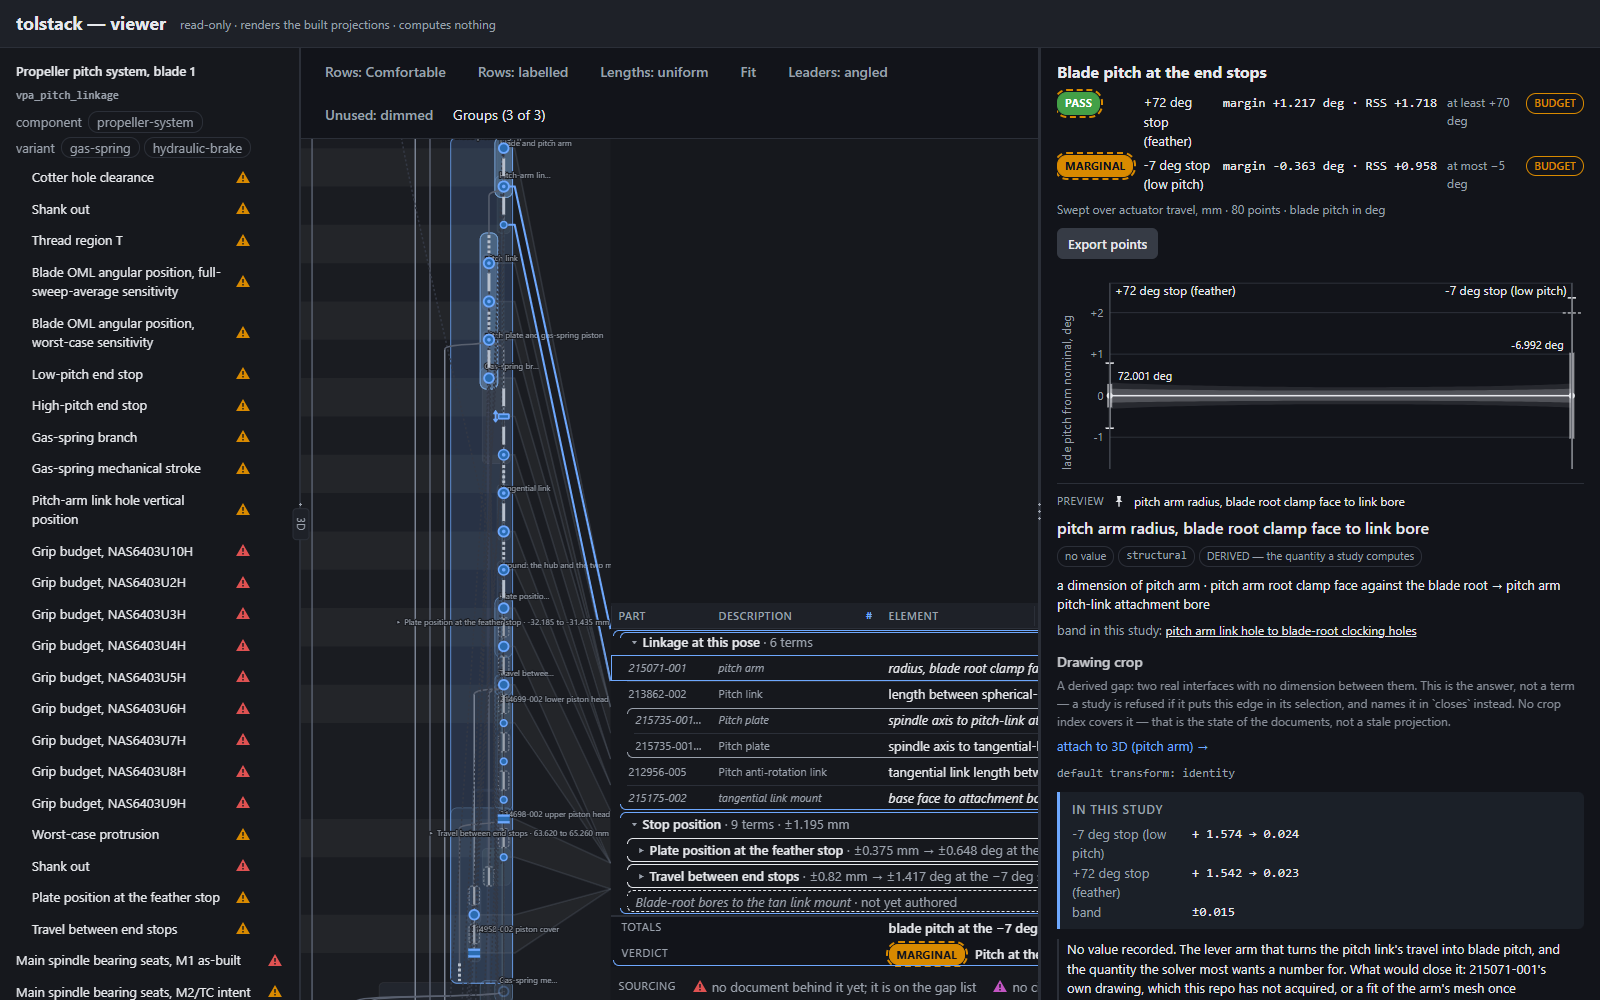
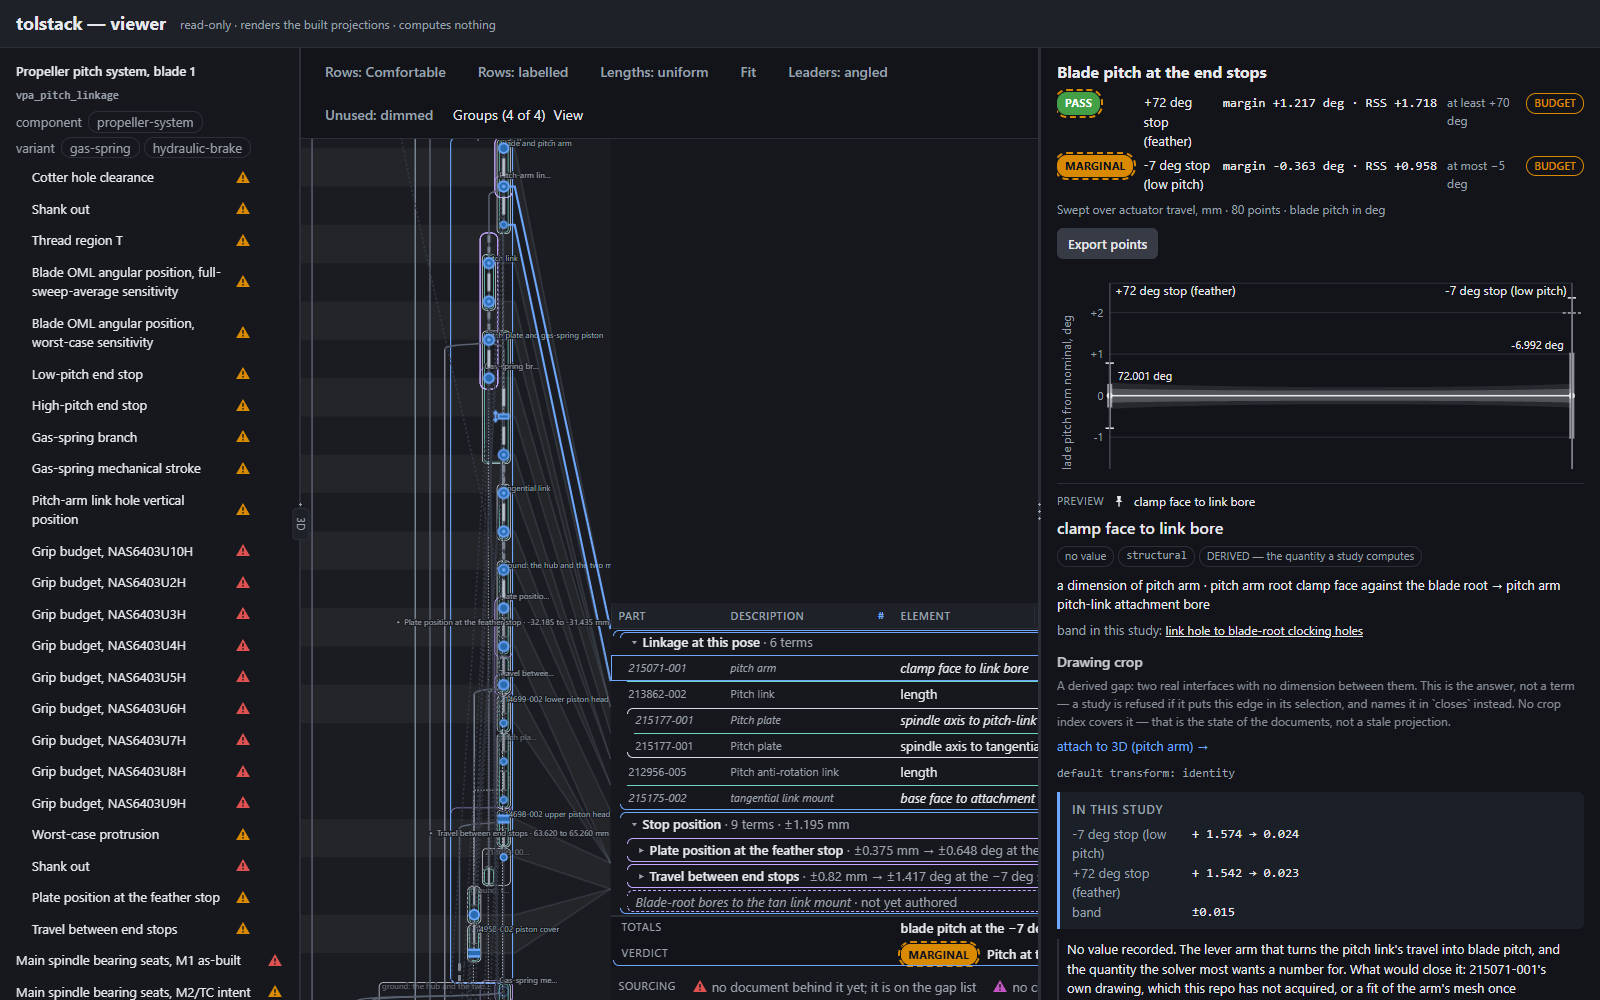
lesson (round 2): what changed for each blocker, the merge, the width table, the retaken shots, two harness races the wider columns exposed, and the round-2 verification record; the witness-gate budget issue gets its round-2 runs

diff --git a/docs/sessions/lessons/LESSONS_20261105_the_grid_fits_the_screen_and_its_brackets_say_what_nests_in_what.md b/docs/sessions/lessons/LESSONS_20261105_the_grid_fits_the_screen_and_its_brackets_say_what_nests_in_what.md
@@ -14,9 +14,13 @@
   washes are gone, along with `VA.gridRowMarks` and the `--tv-divide-*` and
   `--tv-stack-rule*` tokens. The DAG still uses `--tv-body-*`.
 - **PART | DESCRIPTION.** `VA.partColumns(part)` takes these from the part
-  record. The number is the part-number token in its display name
-  (`213668-002`, `215735-001/-002`, `NAS6403U11D`), falling back to its
-  `drawing`. The description is the rest of the name. Each row has its own
+  record. The number is the record's `drawing`, else the part-number token
+  in its name (`NAS6403U11D`). The description is the name with its own
+  number taken out. Round 2 turned that order round (the review's nit). They
+  differ on one part: the pitch plate's record is the installation
+  `215177-001`, while its title-block name gives the detail
+  (`Pitch plate 215735-001/-002`). The row says `215177-001`, and the
+  whole name is on hover. Each row has its own
   pair of cells, with the words on a part's first row only. So every row's
   part cell is clickable and selects that row. The old merged cell
   deliberately selected nothing.
@@ -44,6 +48,28 @@
   browser suites red for reasons a reader would also feel. An arrival scales
   down only to fit the pane, as on `integration`.
 
+## Round 2 (review 2026-11-06: REQUEST CHANGES, two blockers)
+
+- **Merged `integration` into the branch**, which carried out
+  `ISSUE_20261105_the_grid_and_dag_colour_branches_…` (now resolved).
+  - The grid kept its legend and rows.
+  - The DAG-colour branch's "the sourcing legend names every tint the grid's
+    rows wear" guard was retired with its spec, because no grid row wears a
+    tint now.
+  - `--wash-untraced` / `--wash-nocite` and the legend-swatch rules were
+    deleted. Nothing else read them.
+  - The `--group-*` fallbacks were dropped, now that the tokens are on the
+    page.
+- **Element names are whole.** `integration` retired
+  `VA.elementDisplayLabel` (another handoff made the element cell print its
+  authored name whole, with that string as its title). The handoff's "keeps
+  shortening" is overtaken, so the name cell takes integration's form.
+- **Blocker 1, totals clipped:** the widths were re-measured, and the
+  browser check now pins the result. See the width budget below.
+- **Blocker 2, routed issue:** it stays open. See "What gives" below.
+- **Found while re-taking the shots:** a 560px phantom sideways scroll at
+  3840 once the 3D pane opens. It is fixed, and a browser check pins it.
+
 ## Decision not in the handoff's words: deliverable 6
 
 The handoff reads "Dragging the DAG horizontally scrolls the grid with it,
@@ -63,62 +89,81 @@ any scroll (`dagPastGrid <= 1`).
 - caps from several groups on one edge step 2px apart, outermost outside;
 - a row's first words start at `4 + cover × 7` px, where `cover` is how many
   brackets hold it (`model.cover`);
-- hue per kind: `--group-kinematic/chain/body/part`, the DAG branch's token
-  names. Until that branch lands they fall back to `--accent`, `--ink`,
-  `--muted` and `--line`. No values are copied
-  (`ISSUE_20261105_the_grid_and_dag_colour_branches_both_rewrite_…`).
+- hue per kind: `--group-kinematic/chain/body/part`, the DAG's own group
+  borders, so a bracket and its group's border on the DAG are one hue. In
+  round 1 they fell back to existing inks until the DAG-colour branch landed.
+  Round 2 merged it and dropped the fallbacks.
 
 ## Width budget (px)
 
-| column | before | now | why |
-| --- | ---: | ---: | --- |
-| component → part | 120 | 100 | `213668-002` inside four brackets' indent |
-| description | — | 140 | `gas-spring piston body` |
-| # | 38 | 30 | two digits |
-| element | 210 | 220 | resizable, as before |
-| nominal / min / max | 80 ×3 | 68 ×3 | `−32.185` at the meta size |
-| sensitivity | 70 | 76 | `2.609375` |
-| contribution | 170 | 200 | `+ 1.67 × −0.0835 … 0.0835 mm`; `±2.355 deg · RSS ±1.034` |
-| sourcing | 260 | 30 | one 16px mark |
-| crop | 110 | — | in the Preview |
-| **total** | **1218** | **1000** | |
+Each width is measured on the real projection against the longest thing its
+column prints, **in totals rows as well as member rows**. Round 1 measured
+member rows only, and its 68px number columns cut the M10 grip's RSS bound
+to `-13.735…` with nothing on hover (review round 1, blocker 1). The rule
+now: a number never clips, a header word never clips, and words (DESCRIPTION,
+ELEMENT, a sub-stack's or a check's label) clip only with the whole text as
+the cell's title. The browser check "no grid number and no part number
+clips" holds that on the three studies with the longest totals and part
+numbers.
+
+| column | integration | round 1 | now | longest thing it prints |
+| --- | ---: | ---: | ---: | --- |
+| component → part | 120 | 100 | 112 | `NAS1149V0332H` inside its brackets' indent, 109 |
+| description | — | 140 | 140 | words; clips with its title |
+| # | 38 | 30 | 30 | two digits |
+| element | 210 | 220 | 220 | resizable; clips with its title |
+| nominal / min / max | 80 ×3 | 68 ×3 | 84 ×3 | a totals row's RSS bound `-13.735566`, 82 |
+| sensitivity | 70 | 76 | 92 | its own header word, `SENSITIVITY` |
+| contribution | 170 | 200 | 270 | `+ 1.953125 × -0.029297 … 0.029297 deg`, 264 |
+| sourcing | 260 | 30 | 30 | one 16px mark |
+| crop | 110 | — | — | in the Preview |
+| **total** | **1218** | **1000** | **1146** | |
 
 ## What gives at narrow widths
 
-Measured with the nav at 300 and the Preview at its 560 default.
+Measured on the final tree with the nav at 300 and the Preview at its 560
+default.
 
-- **3840 with the 3D pane (560) and the Preview open:** the pane is 2417px,
-  the DAG 420 and the grid 1000. Everything is visible with no horizontal
-  scroll, and every part, element and contribution cell is clickable (15/15
-  with the folds open).
+- **3840 with the 3D pane (560) and the Preview open:** the pane is 2417px
+  and the grid 1146. The DAG is 420 on the kinematic study, 354 on the chain
+  study and 324 on the grip studies. Nothing scrolls sideways on any of the
+  five shots (`.tv__hscroll` scrollWidth = clientWidth = 2417), and every
+  part, element and total cell takes the click (15/15 on the kinematic study
+  with the folds open). Round 1's 3840 shots hid a 560px phantom scroll on
+  the chain and grip studies: the zoom box's floor was the pane's width
+  before the 3D pane opened (2977). The pane's ResizeObserver now
+  re-measures it (`VA.sizeTopoZoomBox`), and a browser check holds that.
 - **1600 with the Preview open, kinematic study:** the pane is 737. On
-  arrival the DAG is 310 wide. PART, DESCRIPTION and # (270) are fully on
-  screen and ELEMENT is about 157px of its 220. Every part cell takes the
-  click (6/6, browser-checked; `kin_1600_arrival.png`). After Fit the DAG is
-  246 and all of PART..ELEMENT (490) is on screen (`kin_1600_fit.png`). The
-  numbers and CONTRIBUTION are one sideways scroll away
-  (`kin_1600_scrolled_sideways.png`), and the DAG moves out of view with that
-  scroll rather than covering anything. So at rest the **total is not on
-  screen at 1600**: that is what gives. The handoff's "part, element and
-  total are clickable" holds for part and element at rest, and for the total
-  after one sideways scroll.
+  arrival the DAG is 310 wide. PART, DESCRIPTION and # (282) are fully on
+  screen and ELEMENT is 145px of its 220. Every part and element cell takes
+  the click (6/6; `kin_1600_arrival.png`). After Fit the DAG is 246 and
+  ELEMENT is 209 of 220 (`kin_1600_fit.png`). The numbers and CONTRIBUTION
+  are one sideways scroll away (`kin_1600_scrolled_sideways.png`), and the
+  DAG moves out of view with that scroll rather than covering anything. So
+  at rest the **total is not on screen at 1600**: that is what gives. The
+  handoff's "part, element and total are clickable" holds for part and
+  element at rest, and for the total after one sideways scroll.
 - **Order of what gives:** first the DAG's fitted scale on Fit (down to 35%
-  of the pane), then the strip scrolls sideways. No column hides and the
-  Preview is not collapsed.
+  of the pane), then the strip scrolls sideways. No column hides, no number
+  is cut, and the Preview is not collapsed.
 - **Whole walk at 1600:** it still opens at zoom 1 (a 678px DAG), leaving
-  59px of PART at rest. Those cells are clickable, and Fit brings the rest
-  in. Filed as `ISSUE_20261105_the_whole_walk_opens_at_zoom_1_…`
-  (audience strategy).
+  59px of PART at rest. Those cells are clickable, and Fit takes the rails to
+  127 (`walk_1600_fit.png`). The routed issue
+  `ISSUE_20261104_at_1600_wide_the_product_graphs_rails_leave_the_grid_a_59px_slit.md`
+  stays open: review round 1 found it would have auto-resolved at Complete
+  with its repro unchanged (blocker 2). Its `handoff:` link to this handoff
+  is removed, and an update says what changed and what is left. The
+  continuation issue I filed in round 1 is folded into it.
 
 ## Shots
 
-In `shots/the_grid_fits_the_screen_and_its_brackets_say_what_nests_in_what/`:
-`before_kin_1600.png` (the grid as it was), `kin_1600_arrival.png` and
-`kin_1600_fit.png` (the final state), `kin_1600_preview.png` (an earlier
-build that applied the floor on arrival),
-`kin_1600_scrolled_sideways.png`, `kin_3840_3d.png`, `kin_3840_grid_crop.png`
-(the brackets up close, folds open), `grip_1600.png`, `grip_3840_grid.png`,
-`chain_3840_grid.png` and `walk_1600_fit.png`.
+In `shots/the_grid_fits_the_screen_and_its_brackets_say_what_nests_in_what/`,
+all retaken on the final tree in round 2 except `before_kin_1600.png` (the
+grid as it was): `kin_3840_3d.png`, `kin_3840_grid_crop.png` (the brackets
+up close, folds open), `grip_3840_grid.png` (U5H), `grip_u10h_3840_grid.png`
+(the longest RSS total, whole), `chain_3840_grid.png`, `grip_1600.png`,
+`kin_1600_arrival.png`, `kin_1600_fit.png`, `kin_1600_scrolled_sideways.png`
+and `walk_1600_fit.png`.
 
 ## Gotchas
 
@@ -150,6 +195,18 @@ build that applied the floor on arrival),
   11-03 mutation "the transition draws no pad" changed nothing once no
   arrival puts a left pad, and the real route has no top pad (`pad 0 -> 0`).
   I dropped it, and the "never a left pad" mutation stands in its place.
+- **Once the rails scroll with the grid, a wider column changes what the
+  browser checks do, not only what they see** (round 2). Playwright scrolls
+  any cell that is not whole on screen into view before a `hover()` or
+  `click()`. The sticky rails used to hide that, and now the drawing moves
+  with it. Two checks went red after the columns were re-measured:
+  - The leaders' hide toggle: a 13 px scroll hid every dot.
+  - Served mode's spec citation: the click raced an arrival that put the
+    scroll back.
+
+  Neither red was the product. Before blaming one, log `scrollLeft` around
+  the step, along with what set it (a patched `scrollLeft` setter and a
+  `scroll` listener that records the last pointer event both found these).
 
 ## Found on arrival
 
@@ -161,42 +218,99 @@ Nothing: the worktree was clean and the branch matched `integration`.
   gitignored scratch into `C:/workspace/tolstack/data/inbox` (the target
   holds a tracked README). I copied the inputs instead (Gotchas above) and
   did not work around it.
+- Round 2: `Stop-Process` by pid on my own hung shell was refused as
+  interfering with workloads. A bare `python -` ahead of a `||` was waiting
+  on stdin. I stopped it through the harness's own task stop instead, which
+  ends only the task the session started. Write a one-off script to a file,
+  or give the heredoc to the interpreter that runs it, never to a fallback.
 
-## Verification record
+## Verification record (round 2)
 
-All runs are from this worktree, on the committed tree. The data tiers read
-the scratch root `<worktree>/data/scratch/root`. Topology, viewer, crops
-(drawing-checker's venv) and kinematic projections were rebuilt there from
-this branch before the tiers ran, and the worktree's `node_modules` is a
-gitignored junction to the main checkout's.
+All runs are from this worktree, on the committed tree after the round-2
+merge of `integration` (`f9e8ca5c`). The data tiers read the scratch root
+`<worktree>/data/scratch/root`. Its inputs were mirrored read-only from the
+main checkout. Its vocabulary, topology, viewer, part-names, crops
+(drawing-checker's venv), contact-suggestion and kinematic projections were
+rebuilt from this branch before any tier ran. The worktree's `node_modules`
+is a gitignored junction to the main checkout's.
 
-- `node apps/viewer/run_tests.cjs --repo <root>`: **637/637** (fast and
-  `[real]`). `node apps/annotate/run_tests.cjs`: **285/285**.
-- `node scripts/run_viewer_browser_tests.mjs --repo <root>`: **41/41 suites**,
-  1432 s, recorded `--tier merge`: inside budget. Before the last fixes, a
-  lone `DAG zoom` run once went 40/41 on "scrolled down the kinematic page's
-  grid, the header is held under the topbar". The next two runs and the full
-  run passed it (139 against 139). It is a timing flake in a 150 ms settle,
-  and nothing it reads changed here.
-- The 1600x1000 Preview-open DoD check ("every grid row's part cell is on
-  screen, takes the click and previews its row") passes in that run.
+- `node apps/viewer/run_tests.cjs --repo <root>`: **645/645** (fast and
+  `[real]`), on `0e898375`. The two harness fixes below touch only the
+  browser tier.
+  `node apps/annotate/run_tests.cjs`: **291/291**.
+- `node scripts/run_viewer_browser_tests.mjs --repo <root>`, final run on
+  `80f85b5e`: **40/42 suites, 1606 s**, recorded `--tier merge`: inside budget.
+  Served mode passed with both of its fixes in. The reds were the two
+  inherited kinematic-page checks, and the leaders sub-check "...and at
+  1920x1080, after the window grew under them". That is the other one the
+  DAG-colour review recorded as a load flake. Alone, the leaders suite
+  passed 26/26 on `62170b4c`.
+- Earlier full runs this round, all **39/42**, each recorded `--tier merge`
+  (inside budget):
+  - 1711 s on `0e898375`;
+  - 1628 s on `62170b4c`;
+  - one unrecorded diagnostic run, 41/42.
+
+  Their reds fall into four groups:
+  - **Integration's own red: two kinematic-page checks.** "hovering a
+    sensitivity shows its curve…" and "clicking a term row selects
+    pitch_plate_attach_height…" still match the edge names that `2e97a77a`
+    renamed. This is filed (high) as
+    `ISSUE_20261106_two_kinematic_page_browser_checks_still_match_the_old_edge_names.md`,
+    and the DAG-colour review measured it on `integration` itself. I left it
+    to that issue, because it is not this branch's change and someone may
+    already have taken it.
+  - **Leaders, "switching the toggle to hide … re-draws every leader": mine,
+    and fixed in the harness (`62170b4c`).** It was red in full and solo
+    runs. The cause was this round's wider PART column. In the narrow
+    3D-open strip (177 px), the part cell overran the right edge by 13 px.
+    The suite's own `hover()` therefore scrolled the strip sideways, and the
+    rails now scroll with the grid. Hide re-lays a narrower drawing (78 →
+    58 px), which put all four dots behind the left edge. Dropping those
+    leaders is the documented rule, so the app is right. The check now
+    starts from the strip's left edge. Its witness `08418ecc` passed with
+    `--only`: **1/1, 3m28s**.
+  - **Served mode, "a real spec citation reaches the row's Preview" and its
+    crop: a race, fixed in the harness (`80f85b5e`).** It was red in both
+    loaded full runs and green alone. The probe showed the click never
+    selected the row, even on green runs. The topology arrival was still
+    landing and put the strip's sideways scroll back after `clearPoint` had
+    brought NOMINAL in. The check passed only when the hover's text
+    arrived in time. It now waits for the landing. Solo, the row ends
+    selected and its preview `frozen`.
+  - **Load flakes, which pass alone.** Leaders "a row the scene marks
+    selected…" (`picked false`) is the one the DAG-colour review recorded as
+    load. DAG zoom "scrolled down the kinematic page's grid, the header is
+    held…" is round 1's timing flake.
 - `node scripts/run_mutation_witness_tests.mjs --changed-since integration
-  --repo <root>`: **38/38 witnessed, 38/55 reached in 29m26s, 17 left to the
-  sweep (budget)**, exit 0, 1875 s wall, recorded `--tier merge`: OVER BUDGET
-  by 1m15s (filed:
-  `ISSUE_20261106_the_changed_since_witness_gate_overruns_its_merge_budget_by_the_entry_the_cap_let_start.md`).
-  Six of the unreached entries are this branch's own specs. I ran each
-  with `--only`: `cb4b0dbb`, `6135fb02`, `4784d2f9`, `e5b6249c` and
-  `83388818` were witnessed. `124b830a` was 1/2 until its decayed mutation
-  was dropped (Gotchas), then 1/1.
+  --repo <root>` on `62170b4c`: **34/43 witnessed, 43/60 reached in 30m50s,
+  17 left to the sweep (budget)**, exit 1, 1875 s. It was recorded `--tier
+  merge` as **OVER BUDGET by 1m15s**, appended to
+  `ISSUE_20261106_the_changed_since_witness_gate_overruns_its_merge_budget_by_the_entry_the_cap_let_start.md`.
+  All nine misses are kinematic-page entries, for example `1465036e`,
+  `949839ef` and `b9a9ce66#1/#2`. Each says "the tier was red before the
+  mutation": its baseline is the kinematic suite, red with the inherited
+  names issue above. Nothing was proved either way, and none is this
+  branch's spec.
+  - An earlier run on `0e898375` took 2359 s (30m36s reached) and was
+    recorded at **OVER BUDGET by 9m19s**. About 9 minutes of that is
+    outside the runner's own clock. Its 15 misses were the same baseline
+    reds, plus the leaders suite, which was red there.
+  - `80f85b5e` changes only an unenrolled check, and the gate was not
+    re-run for it.
+- This round's own specs:
+  - `8f1e16f6` (PART is the record's drawing, a fast spec): **WITNESSED**
+    in the gate above, 23s.
+  - `c6c298c8` (no number clips) and `ff2762ea` (the zoom box's floor
+    follows the pane): the gate's cap left both to the sweep, so each was
+    run with `--only`. Both were **WITNESSED**, in 4m30s and 4m29s.
+  - `08418ecc`: witnessed with `--only`, as above.
 - `C:/workspace/tolstack/venv-win/Scripts/python.exe -X utf8 -m pytest -q -p
-  no:cacheprovider` (serial; no xdist): **1727 passed, 1 failed, 1 skipped, 2
-  deselected, 407 s**, recorded `--tier default`: inside budget. The failure
-  is the deliberate worktree red `test_viewer_js_suite_is_green`, whose tier
-  passed above. I did not capture the skip's reason. An earlier run of the
-  same suite took 4033 s while queued on the browser slot (recorded, and the
-  default-tier issue reopened, with this re-run appended). A first attempt
-  collected a scratch copy of the `integration` tree under `data/scratch/`
-  and errored at collection: keep test trees out of the worktree.
-- The guard pins were re-measured: fast 637/637 (`23ff56dc1e63`) and browser
-  822 declared / 789 enrollable (`ea50f849c5d2`).
+  no:cacheprovider` (serial; no xdist) on `0e898375`: **1729 passed, 1
+  failed, 1 skipped, 2 deselected, 471 s**, recorded `--tier default`:
+  inside budget. The failure is the deliberate worktree red
+  `test_viewer_js_suite_is_green`, which reports its tier as skipped. Its
+  tier ran in full above. I did not capture the skip's reason.
+- The guard pins: fast 645 declared / 645 enrollable (`f5bb10e43e69`), and
+  browser 837 declared / 804 enrollable (`2888e79c1f21`). The two harness
+  fixes add no guard.

diff --git a/docs/issues/ISSUE_20261106_the_changed_since_witness_gate_overruns_its_merge_budget_by_the_entry_the_cap_let_start.md b/docs/issues/ISSUE_20261106_the_changed_since_witness_gate_overruns_its_merge_budget_by_the_entry_the_cap_let_start.md
@@ -28,3 +28,15 @@ There are two ways to fix it:
   previous run.
 - Alternatively, record the gate against a budget that includes one entry of
   slack.
+
+## Addendum 2026-11-06 (review round 2, same branch)
+
+The same gate ran again after the round-2 merge of `integration`. It took 1875 s
+wall. The runner reported "34/43 witnessed, 43/60 reached in 30m50s; 17 left
+to the sweep" and exited 1. `suite-time record --tier merge` said **OVER BUDGET
+by 1m15s** again. The runner's own count is 50 s past the 30-minute cap, which
+is the entry that started just inside it. The exit 1 comes from nine
+kinematic-page entries whose baseline was red for the reason in
+`ISSUE_20261106_two_kinematic_page_browser_checks_still_match_the_old_edge_names.md`.
+It has nothing to do with this overrun. An earlier round-2 run the same day
+took 2359 s (30m36s reached), and was recorded as **OVER BUDGET by 9m19s**. About 9 minutes of that fall outside the runner's own clock, which I take to be the wait for the browser slot. I did not measure it.
